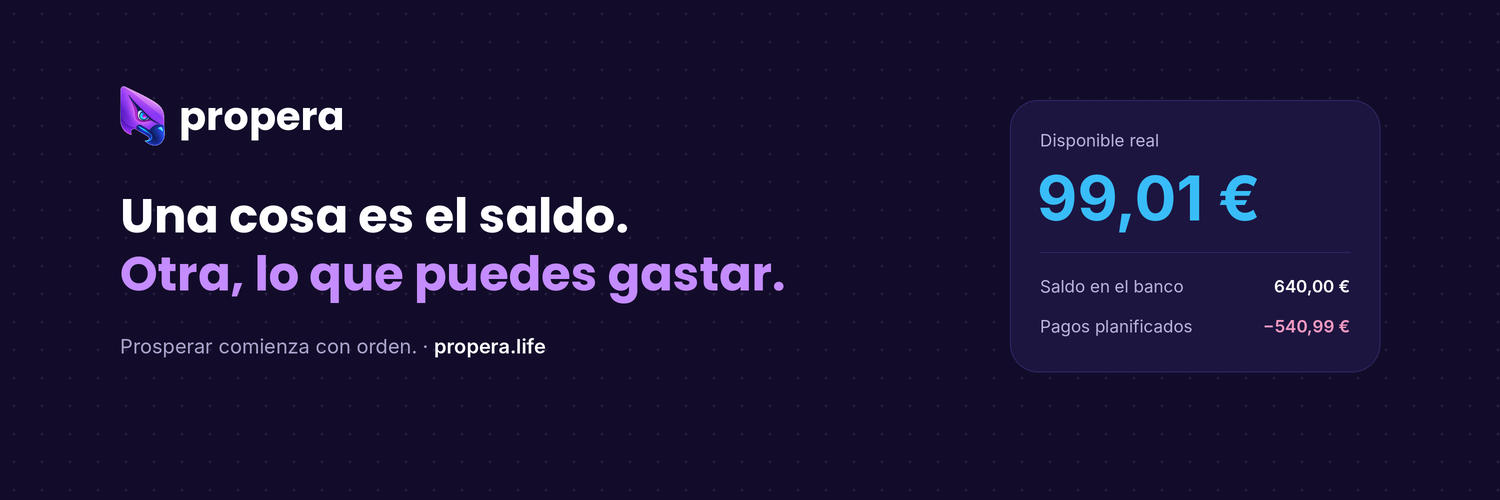
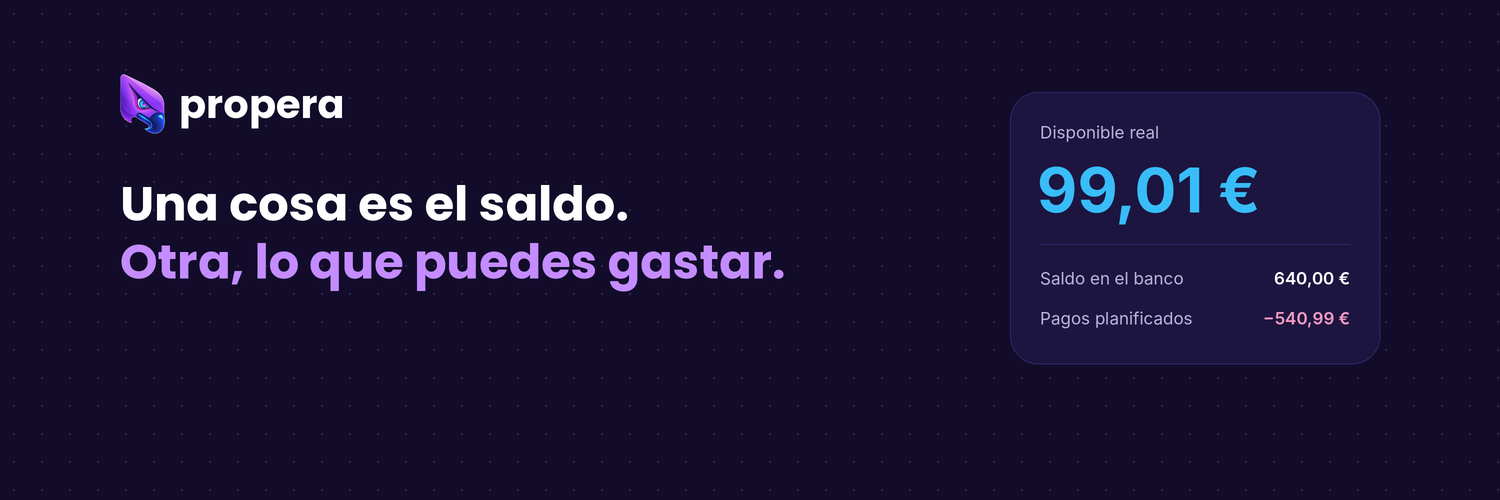
Cabecera X: sin la línea del lema para que no la tape la foto de perfil
Claude-Session: https://claude.ai/code/session_013NhGNmoEkRz6gFKR3yqaNt

diff --git a/cabeceras/render_headers.py b/cabeceras/render_headers.py
@@ -10,7 +10,7 @@ WHITE = (255, 255, 255); LILA = (196, 140, 255); MUTED = (171, 164, 204); CMUT =
 BLUE = (56, 189, 248); PINK = (244, 154, 193)
 LOGO = Image.open('/home/claude/work/headers/logo.png').convert('RGBA')
 
-def render(W, H, k, lx, ly, cx, cy, cw, gap_dots, out, S=2):
+def render(W, H, k, lx, ly, cx, cy, cw, gap_dots, out, S=2, lema=True):
     """k = escala tipográfica; (lx,ly) bloque izq.; (cx,cy,cw) tarjeta. Dibuja a S× y reduce."""
     im = Image.new('RGB', (W * S, H * S), BG); d = ImageDraw.Draw(im)
     for y in range(gap_dots // 2, H, gap_dots):
@@ -32,8 +32,9 @@ def render(W, H, k, lx, ly, cx, cy, cw, gap_dots, out, S=2):
     # lema + web
     f1, f2 = I('Regular', s(20 * k)), I('SemiBold', s(20 * k))
     y = ly + 248 * k; a = "Prosperar comienza con orden. · "
-    d.text((s(lx), s(y)), a, font=f1, fill=MUTED)
-    d.text((s(lx) + d.textlength(a, font=f1), s(y)), "propera.life", font=f2, fill=WHITE)
+    if lema:
+        d.text((s(lx), s(y)), a, font=f1, fill=MUTED)
+        d.text((s(lx) + d.textlength(a, font=f1), s(y)), "propera.life", font=f2, fill=WHITE)
     # tarjeta
     p = 30 * k; ch = 272 * k
     d.rounded_rectangle((s(cx), s(cy), s(cx + cw), s(cy + ch)), s(28 * k), fill=CARD, outline=BORDER, width=max(1, s(1)))
@@ -50,7 +51,7 @@ def render(W, H, k, lx, ly, cx, cy, cw, gap_dots, out, S=2):
     im.resize((W, H), Image.LANCZOS).save(out, optimize=True)
 
 O = '/home/claude/out/'
-render(1500, 500, 1.0, 120, 86, 1010, 100, 370, 28, O + 'cabecera_x_1500x500.png')
+render(1500, 500, 1.0, 120, 74, 1010, 92, 370, 28, O + 'cabecera_x_1500x500.png', lema=False)
 render(1640, 624, 1.05, 210, 122, 1070, 160, 370, 30, O + 'portada_facebook_1640x624.png')
 render(2560, 1440, 1.32, 560, 524, 1600, 522, 440, 40, O + 'banner_youtube_2560x1440.png')
 print('ok')
